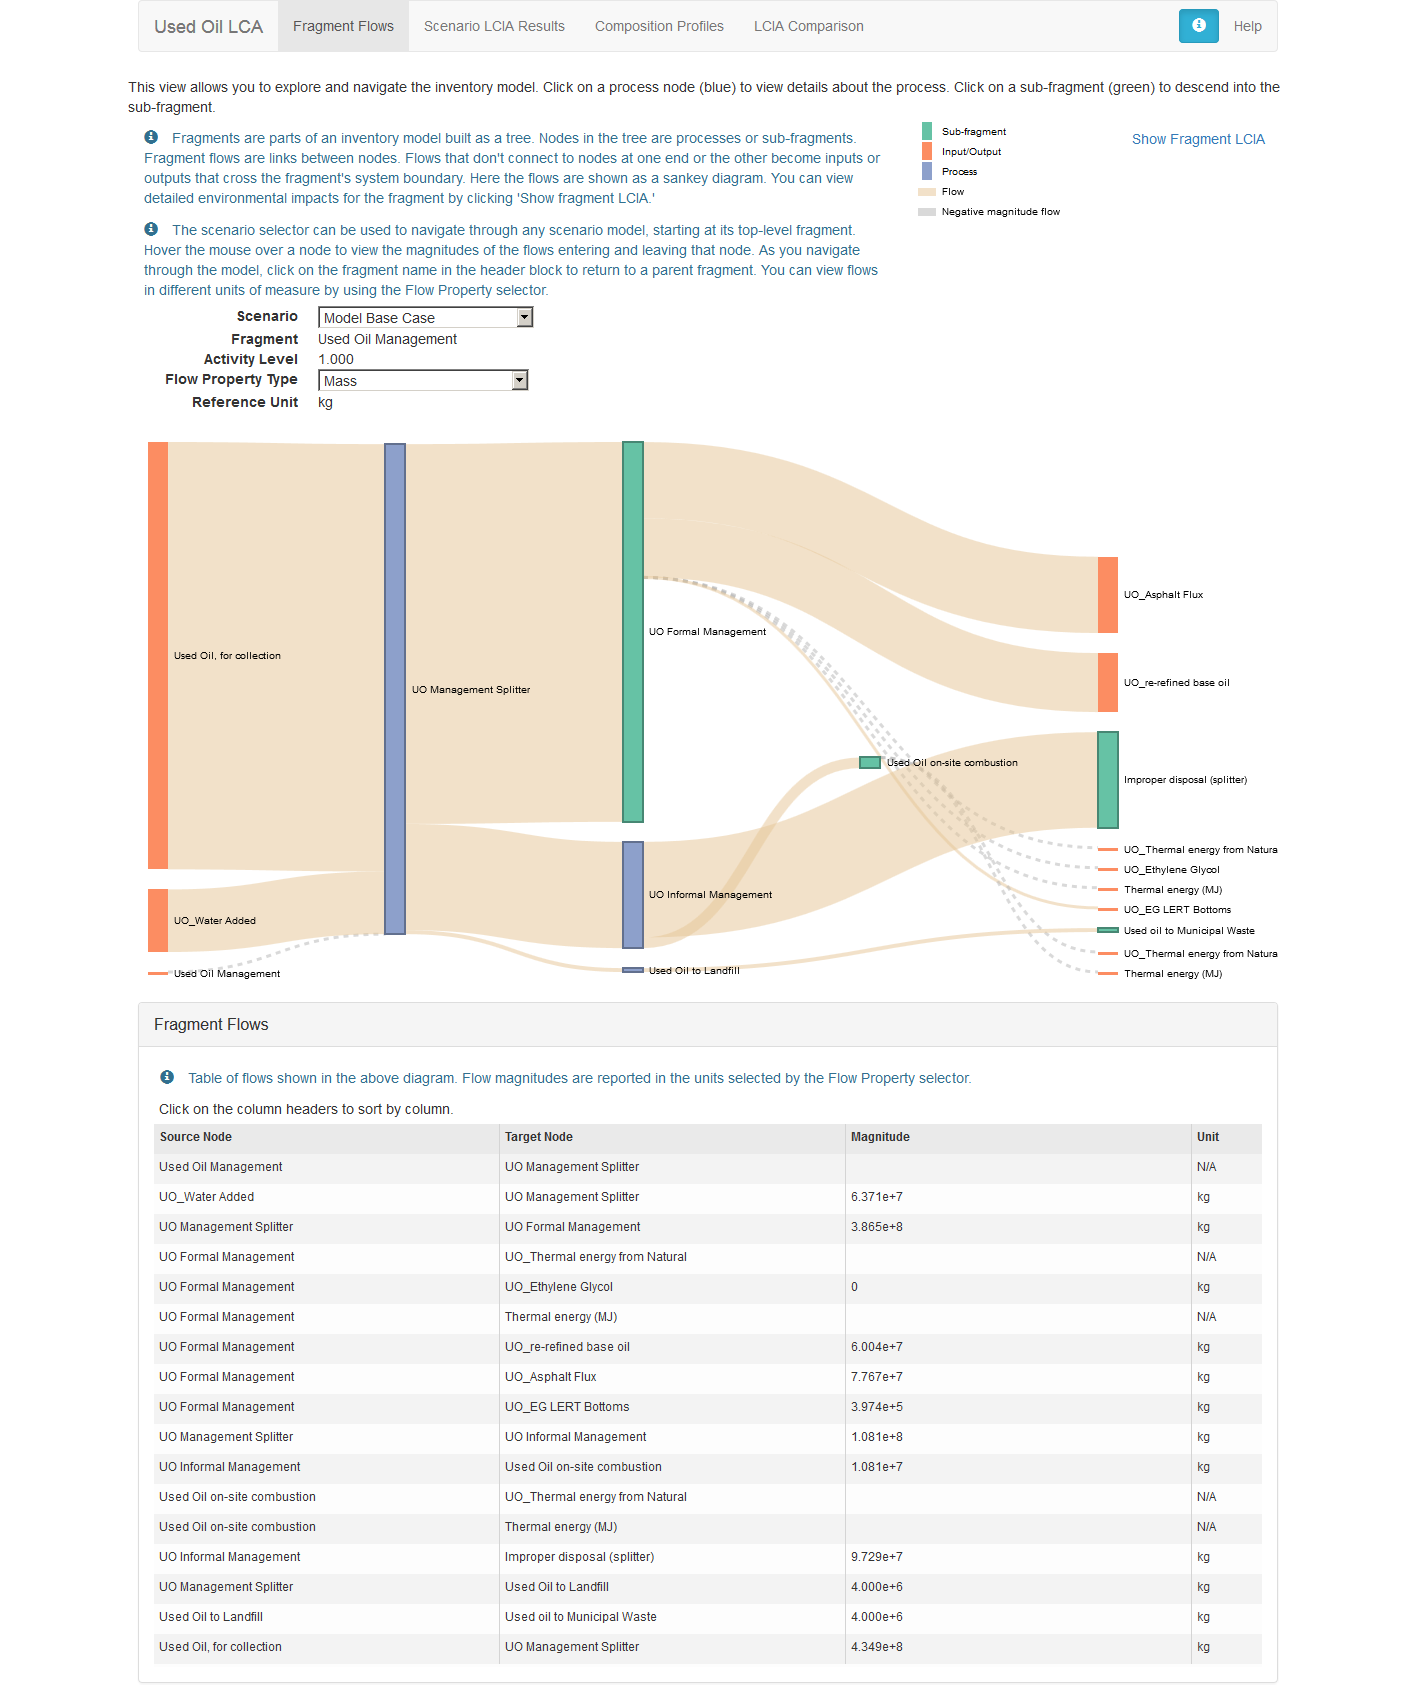
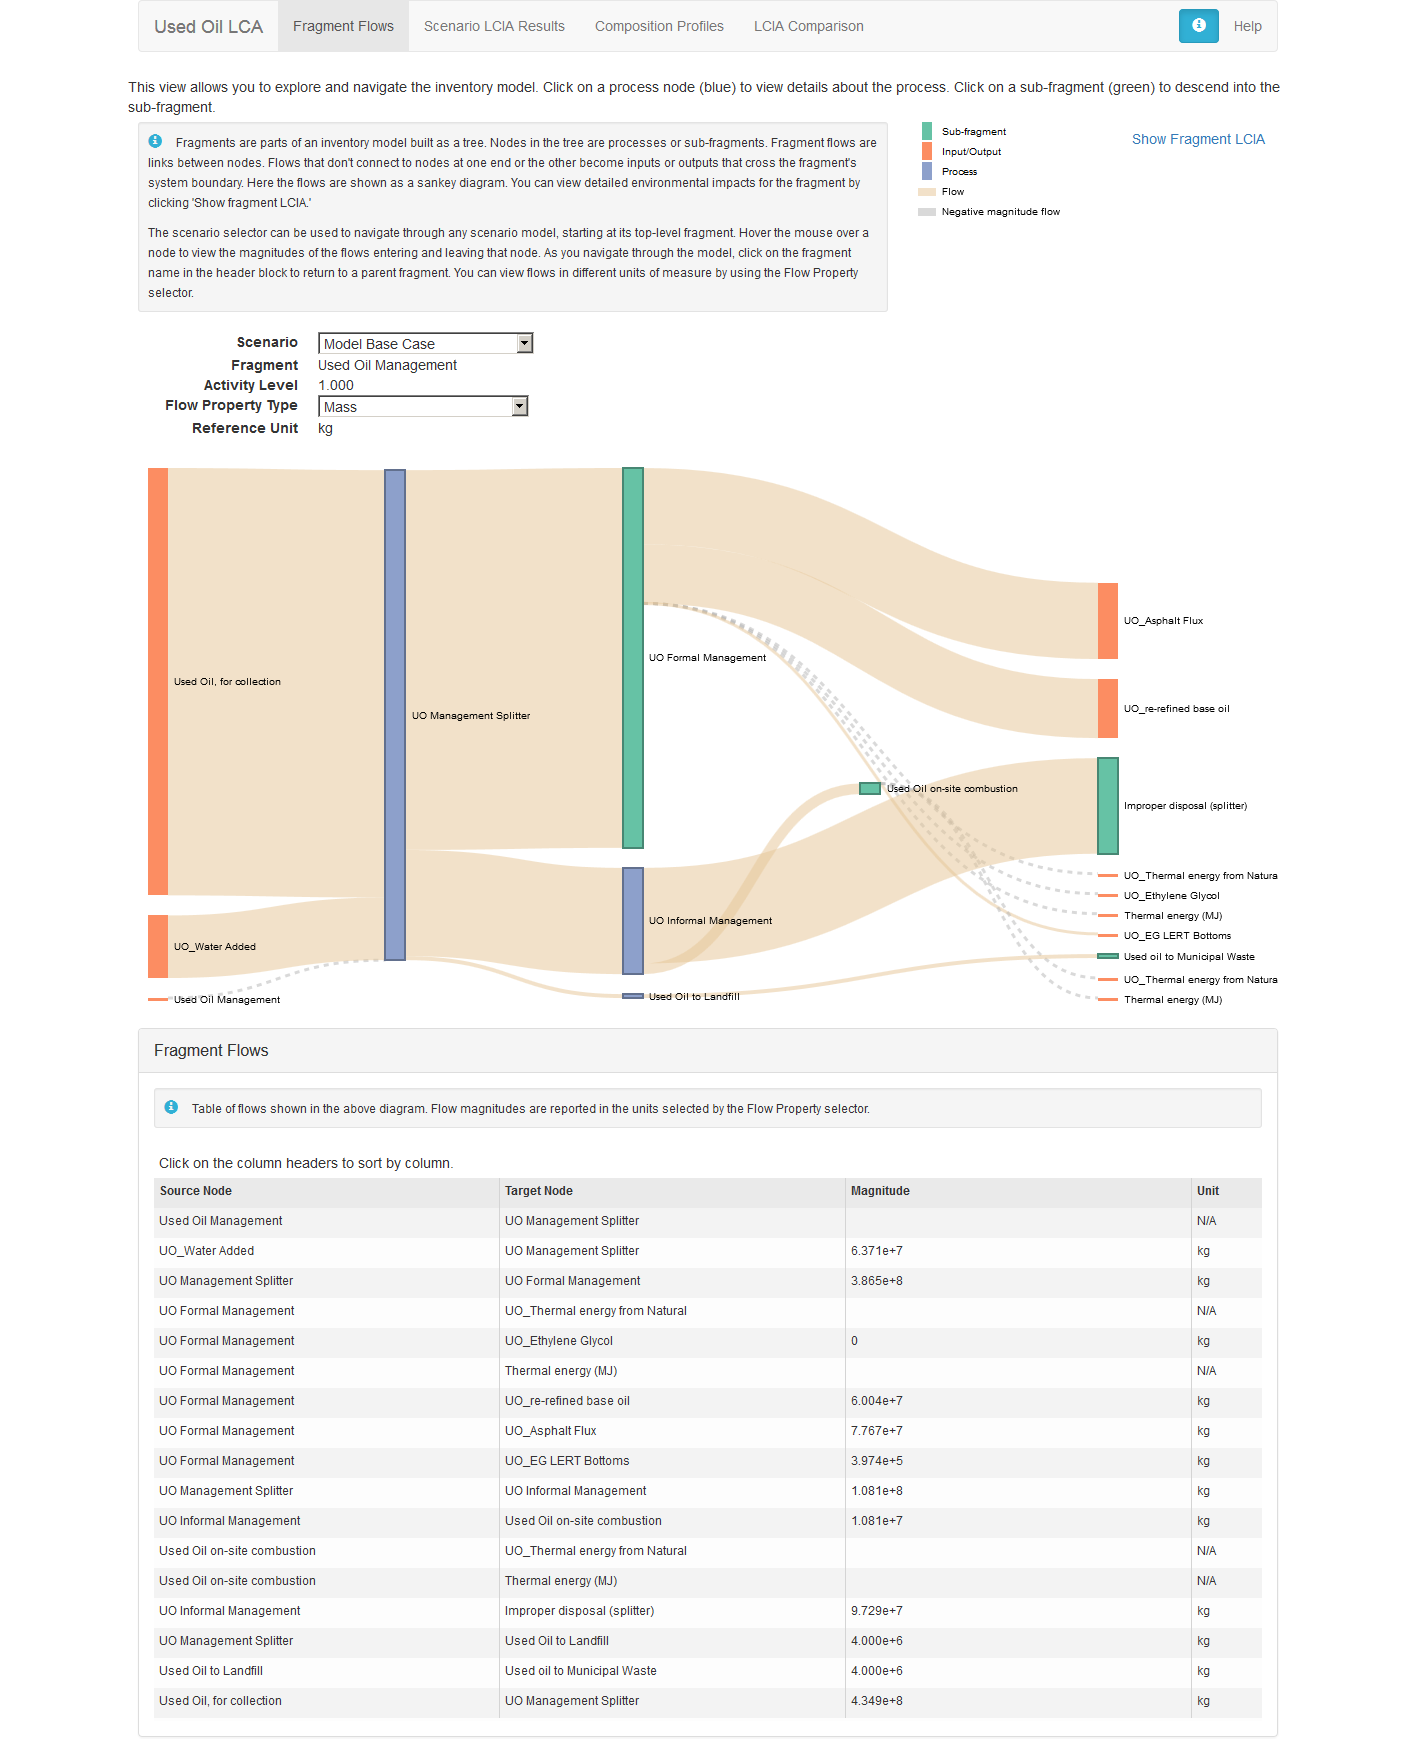
Info: change style (#20)

diff --git a/app/home/home.html b/app/home/home.html
@@ -1,15 +1,18 @@
 <!-- Partial html for home page -->
 <p class="desc">{{infoMsg.home.msg}}</p>
-<info>{{infoMsg.home.help}}</info>
-<info>{{infoMsg.home.msg1}}</info>
-<info>{{infoMsg.home.msg2}}</info>
-<info>{{infoMsg.home.msg3}}</info>
+<info>{{infoMsg.home.help}}
+    <p></p>
+    <p>{{infoMsg.home.msg1}}</p>
+    <p>{{infoMsg.home.msg2}}</p>
+    <p>{{infoMsg.home.msg3}}</p>
+</info>
 <div class="panel panel-default">
     <div class="panel-heading">
         <span class="panel-title">Scenarios</span>
         <button class="btn btn-default btn-sm pull-right" ng-show="canCreate" ng-click="createScenario()">New</button>
         <div class="clearfix"></div>
     </div>
+    <div class="panel-body">
     <info>{{infoMsg.home.scenarios.msg}}</info>
     <p class="desc">{{infoMsg.home.scenarios.msg2}}</p>
     <table class="table table-condensed">
@@ -46,12 +49,13 @@
         </tr>
         </tbody>
     </table>
-
+    </div>
 </div>
 <div class="panel panel-default">
     <div class="panel-heading">
         <span class="panel-title">LCIA Methods</span>
     </div>
+    <div class="panel-body">
     <info>{{infoMsg.home.lciaMethods.msg}}</info>
     <p class="desc">{{infoMsg.home.lciaMethods.msg1}}</p>
     <table class="table table-condensed">
@@ -76,4 +80,5 @@
         </tr>
         </tbody>
     </table>
+    </div>
 </div>

diff --git a/app/scenario/scenario-detail.html b/app/scenario/scenario-detail.html
@@ -37,14 +37,18 @@
         </span>
     </div>
     <div class="panel-body">
-    <info>{{infoMsg.home.scenarios.params}}</info>
+    <info>{{infoMsg.home.scenarios.params}}<p></p>
+          {{infoMsg.home.scenarios.paramTypes}}
+        <ol>
+            <li>{{infoMsg.home.scenarios.ffParam}}</li>
+            <li>{{infoMsg.home.scenarios.fpParam}}</li>
+            <li>{{infoMsg.home.scenarios.peParam}}</li>
+            <li>{{infoMsg.home.scenarios.pdParam}}</li>
+            <li>{{infoMsg.home.scenarios.lcParam}}</li>
+        </ol>
+    </info>
     <p class="desc">{{infoMsg.sort}}</p>
-        <param-grid options="options" data="gridData" columns="gridColumns" params="params"></param-grid>
-    <info>{{infoMsg.home.scenarios.paramTypes}}</info>
-    <info>{{infoMsg.home.scenarios.ffParam}}</info>
-    <info>{{infoMsg.home.scenarios.fpParam}}</info>
-    <info>{{infoMsg.home.scenarios.peParam}}</info>
-    <info>{{infoMsg.home.scenarios.pdParam}}</info>
-    <info>{{infoMsg.home.scenarios.lcParam}}</info>
+        <param-grid options="options" data="gridData" columns="gridColumns" params="params">
+        </param-grid>
     </div>
 </div>

diff --git a/app/process-instance/process-instance.html b/app/process-instance/process-instance.html
@@ -38,10 +38,11 @@
             </change-buttons>
         </span>
     </div>
-    <p class="desc">{{infoMsg.processInstance.flows}} {{infoMsg.sort}}</p>
-    <info>{{infoMsg.processInstance.flows1}}</info>
-    <info>{{infoMsg.processInstance.balance}}</info>
     <div class="panel-body">
+        <p class="desc">{{infoMsg.processInstance.flows}} {{infoMsg.sort}}</p>
+        <info>{{infoMsg.processInstance.flows1}}<p></p>
+              {{infoMsg.processInstance.balance}}
+        </info>
         <param-grid options="options" data="fragmentFlows" columns="columns" params="params"></param-grid>
     </div>
 </div>
@@ -63,8 +64,9 @@
     </div>
     <div class="panel-body">
     <p class="desc">{{infoMsg.processInstance.dissipation}} {{infoMsg.sort}}</p>
-    <info>{{infoMsg.processInstance.diss1}}</info>
-    <info>{{infoMsg.processInstance.diss2}}</info>
+    <info>{{infoMsg.processInstance.diss1}}<p></p>
+          {{infoMsg.processInstance.diss2}}
+    </info>
         <param-grid options="paramGrid.dissipation.options"
                     data="paramGrid.dissipation.data"
                     columns="paramGrid.dissipation.columns"

diff --git a/app/components/info/info-directive.js b/app/components/info/info-directive.js
@@ -15,7 +15,7 @@
  *
  * @param {string} msg Value of one of the msg properties in INFO_MSG
  */
-angular.module('lcaApp.info.directive', ['ui.bootstrap.alert'])
+angular.module('lcaApp.info.directive', [])
     .constant('INFO_MSG',
     { sort: "Click on the column headers to sort by column.",
       home : {
@@ -88,7 +88,7 @@ angular.module('lcaApp.info.directive', ['ui.bootstrap.alert'])
         function($compile) {
             return {
                 restrict: 'E',
-                template: '<div class="alert alert-info" role="alert" ng-show="displayInfo"><span class="glyphicon glyphicon-info-sign" aria-hidden="true"></span><span class="sr-only">Information:</span><span ng-transclude></span></div>',
+                template: '<div class="well well-sm" ng-show="displayInfo"><span class="glyphicon glyphicon-info-sign glyphicon-info-color" aria-hidden="true"></span><span class="sr-only">Information:</span><small><span ng-transclude></span></small></div>',
                 //replace : true,
                 transclude : true,
                 link : function (scope) {

diff --git a/app/fragment-lcia/fragment-lcia.html b/app/fragment-lcia/fragment-lcia.html
@@ -2,7 +2,6 @@
 <div ng-if="navigationService===null">
     <p class="desc">{{infoMsg.fragmentLcia.msgScenario}}</p>
     <info>{{infoMsg.fragmentLcia.xport}}</info>
-    <info>{{infoMsg.fragmentLcia.lcia}}</info>
     <dl class="dl-horizontal">
         <dt>Fragment</dt>
         <dd>
@@ -35,7 +34,6 @@
 <div ng-if="navigationService">
     <p class="desc">{{infoMsg.fragmentLcia.msgFragment}}</p>
     <info>{{infoMsg.fragmentLcia.xport}}</info>
-    <info>{{infoMsg.fragmentLcia.lcia}}</info>
     <div class="row">
         <div class="col-md-6">
             <h4>Fragment LCIA Results</h4>
@@ -85,7 +83,9 @@
         <dd>{{fragment.activityLevel | numFormat }}</dd>
     </dl>
 </div>
-<info>{{infoMsg.fragmentLcia.waterfall}}</info>
+<info>{{infoMsg.fragmentLcia.waterfall}}<p></p>
+      {{infoMsg.fragmentLcia.lcia}}
+</info>
 <div class="row" ng-if="scenarios.length">
     <div ng-repeat="method in methods" class="col-md-6">
         <div class="panel panel-default">

diff --git a/app/composition-profiles/composition-profiles.html b/app/composition-profiles/composition-profiles.html
@@ -22,8 +22,9 @@
         <span class="panel-title">Flow Property Magnitudes</span>
     </div>
     <div class="panel-body">
-    <info>{{infoMsg.compositionProfile.content}}</info>
-    <info>{{infoMsg.compositionProfile.ncv}}</info>
+    <info>{{infoMsg.compositionProfile.content}}<p></p>
+        {{infoMsg.compositionProfile.ncv}}
+    </info>
         <label for="selectScenario">Scenario</label>
         <select id="selectScenario" ng-model="scenario"
                 ng-options="s.name for s in scenarios"

diff --git a/app/fragment-sankey/fragment-sankey.html b/app/fragment-sankey/fragment-sankey.html
@@ -2,8 +2,9 @@
 <div class="row">
     <p class="desc">{{infoMsg.fragmentSankey.msg}}</p>
     <div class="col-md-8">
-    <info>{{infoMsg.fragmentSankey.msg1}}</info>
-    <info>{{infoMsg.fragmentSankey.msg2}}</info>
+    <info>{{infoMsg.fragmentSankey.msg1}}<p></p>
+          {{infoMsg.fragmentSankey.msg2}}
+    </info>
         <dl class="dl-horizontal">
             <dt>Scenario</dt>
             <dd>

diff --git a/e2e-tests/HomePage.js b/e2e-tests/HomePage.js
@@ -1,7 +1,7 @@
 function HomePage () {
     this.scenarios = element.all(by.repeater("scenario in scenarios"));
     this.lciaMethods = element.all(by.repeater("method in lciaMethods"));
-    this.infoMessages = element.all(by.css(".alert-info"));
+    this.infoMessages = element.all(by.css("info"));
     this.newButton = element(by.buttonText("New"));
 
     this.get = function (auth) {

diff --git a/app/app.css b/app/app.css
@@ -187,6 +187,10 @@ info .glyphicon {
     width : 7em;
 }
 
+.glyphicon-info-color {
+    color: #31b0d5;
+}
+
 /* Disable ng-grid scroll bars */
 
 .ngViewport{
